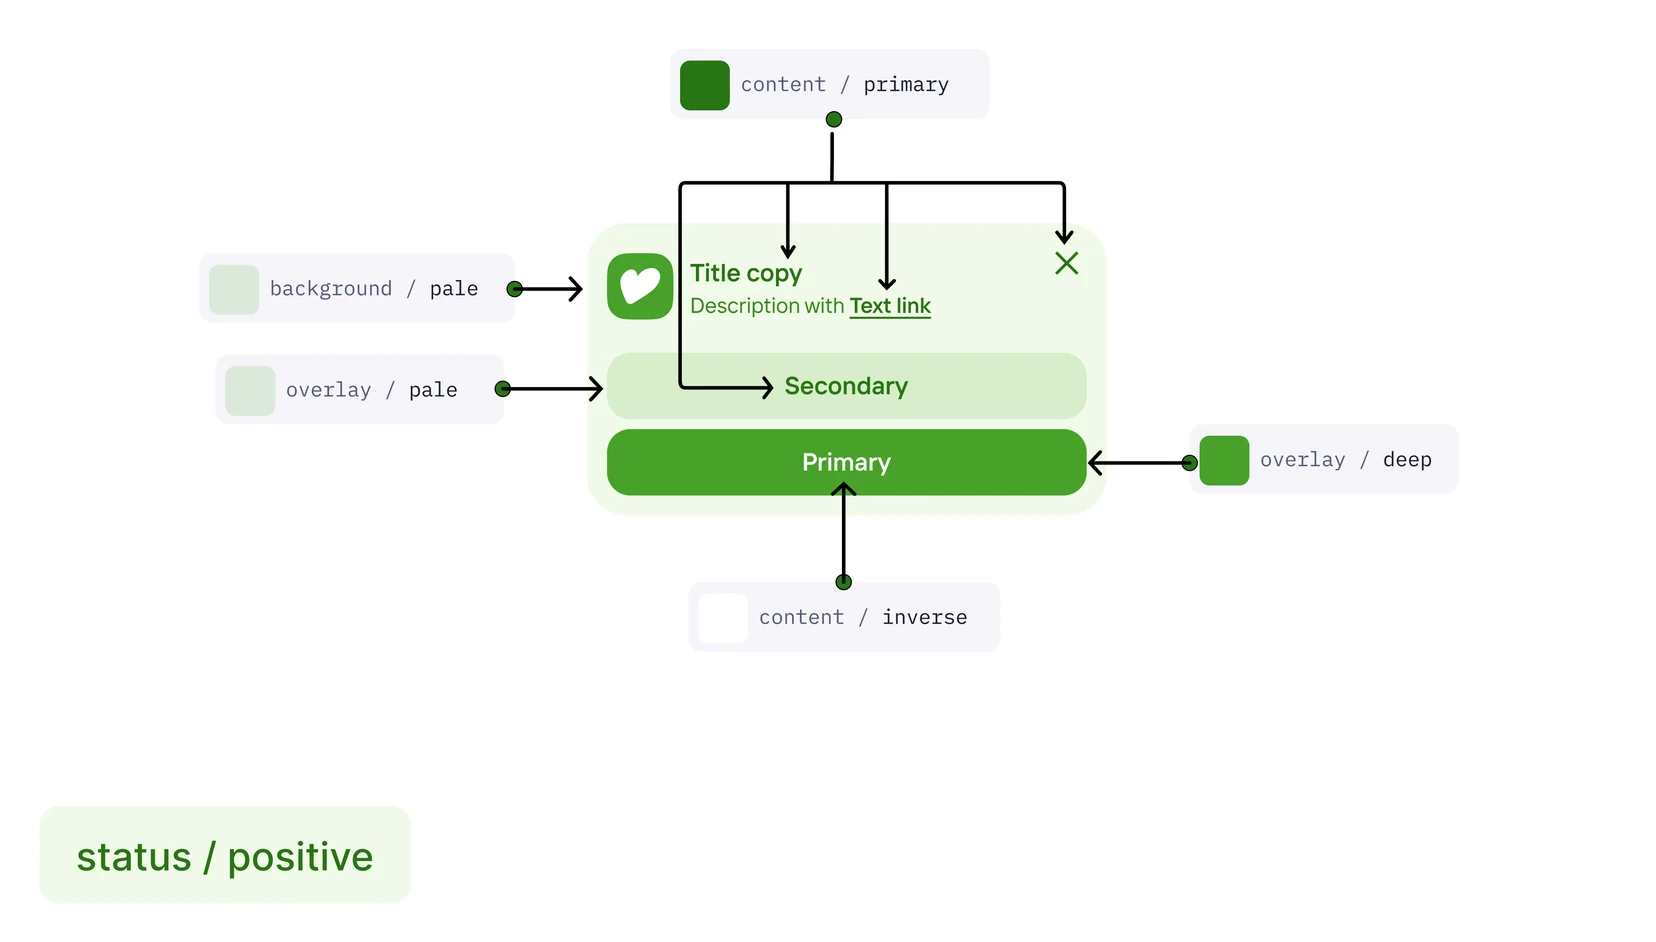
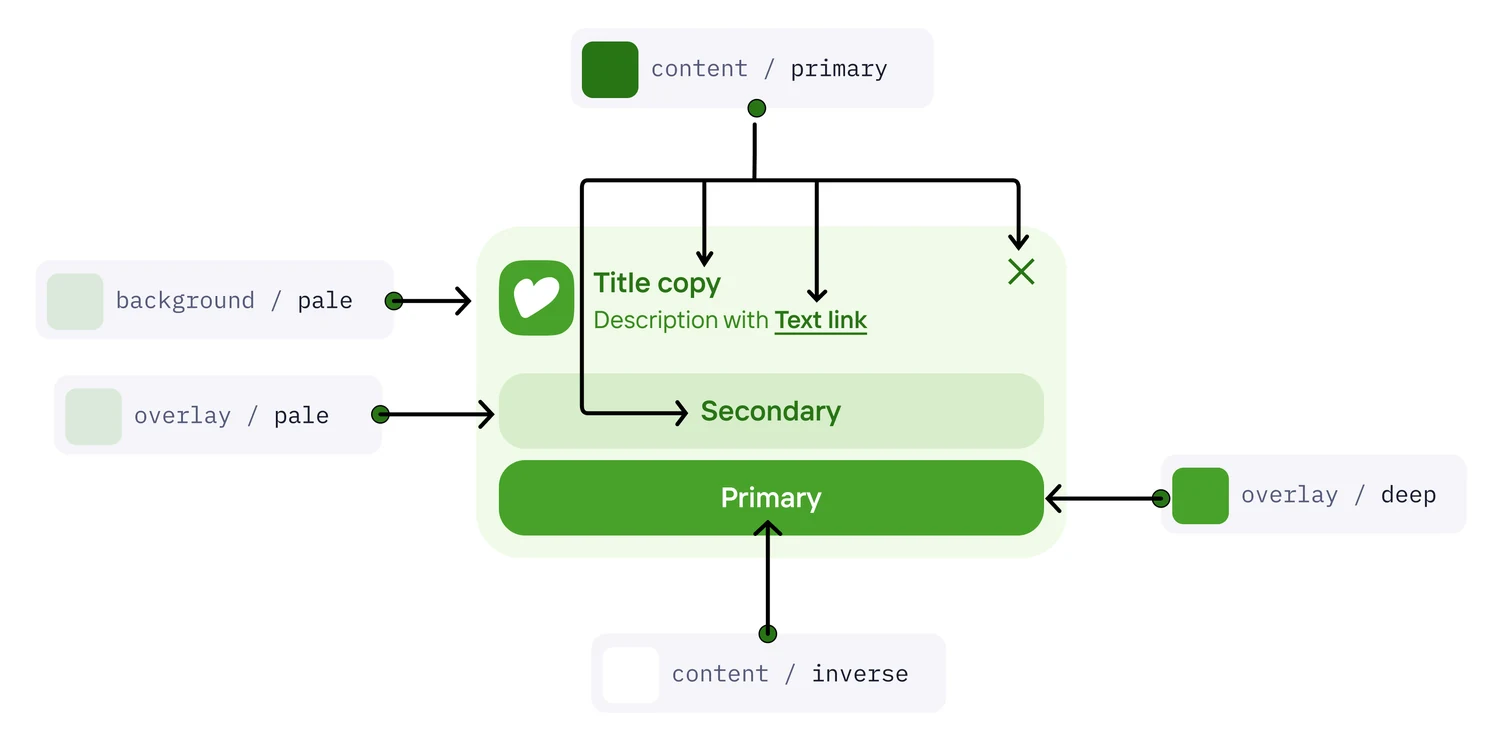
Kite DS: Figma variable-modes panel next to every cycling example
Claude-Session: https://claude.ai/code/session_01RRbtjB1Ax1vA2u46cEyf4d

diff --git a/index.html b/index.html
@@ -445,14 +445,15 @@
       <h2>Solution</h2>
       <div class="body">
         <figure class="wide-fig roles-sw">
-          <div class="board roles-plate">
-            <img class="on" src="assets/img/kite/roles-neutral.webp" alt="A notification block in the neutral group: each part points to its role token">
-            <img src="assets/img/kite/roles-status-positive.webp" alt="The same block in the status positive group" loading="lazy">
-            <img src="assets/img/kite/roles-accent-uno.webp" alt="The same block in the accent uno group" loading="lazy">
-            <img src="assets/img/kite/roles-accent-duo.webp" alt="The same block in the accent duo group" loading="lazy">
-            <img src="assets/img/kite/roles-brand-uno.webp" alt="The same block in the brand uno group" loading="lazy">
-            <img src="assets/img/kite/roles-brand-duo.webp" alt="The same block in the brand duo group" loading="lazy">
-            <img src="assets/img/kite/roles-status-negative.webp" alt="The same block in the status negative group" loading="lazy">
+          <div class="board roles-plate"><div class="rp-media">
+            <img data-modes="Theme=Light;Color group=neutral" class="on" src="assets/img/kite/roles-neutral.webp" alt="A notification block in the neutral group: each part points to its role token">
+            <img data-modes="Theme=Light;Color group=status / positive" src="assets/img/kite/roles-status-positive.webp" alt="The same block in the status positive group" loading="lazy">
+            <img data-modes="Theme=Light;Color group=accent / uno" src="assets/img/kite/roles-accent-uno.webp" alt="The same block in the accent uno group" loading="lazy">
+            <img data-modes="Theme=Light;Color group=accent / duo" src="assets/img/kite/roles-accent-duo.webp" alt="The same block in the accent duo group" loading="lazy">
+            <img data-modes="Theme=Light;Color group=brand / uno" src="assets/img/kite/roles-brand-uno.webp" alt="The same block in the brand uno group" loading="lazy">
+            <img data-modes="Theme=Light;Color group=brand / duo" src="assets/img/kite/roles-brand-duo.webp" alt="The same block in the brand duo group" loading="lazy">
+            <img data-modes="Theme=Light;Color group=status / negative" src="assets/img/kite/roles-status-negative.webp" alt="The same block in the status negative group" loading="lazy">
+          </div><div class="vm" aria-hidden="true"></div>
           </div>
         </figure>
         <div class="two-col">
@@ -461,9 +462,10 @@
           <p>Components only know roles, so switching the group recolors them without a new variant. A new brand or theme means new values for the same roles, not new tokens.</p>
         </div>
         <figure class="wide-fig roles-sw mt-fig">
-          <div class="board roles-plate">
-            <img class="on" src="assets/img/kite/intensity-pale.webp" alt="A notification block in pale intensity: light surface, soft secondary and a deep primary button">
-            <img src="assets/img/kite/intensity-deep.webp" alt="The same block in deep intensity: dark surface, inverse text and a white primary button" loading="lazy">
+          <div class="board roles-plate"><div class="rp-media">
+            <img data-modes="Color group=neutral;Intensity=pale" class="on" src="assets/img/kite/intensity-pale.webp" alt="A notification block in pale intensity: light surface, soft secondary and a deep primary button">
+            <img data-modes="Color group=neutral;Intensity=deep" src="assets/img/kite/intensity-deep.webp" alt="The same block in deep intensity: dark surface, inverse text and a white primary button" loading="lazy">
+          </div><div class="vm" aria-hidden="true"></div>
           </div>
         </figure>
         <div class="two-col">
@@ -477,9 +479,10 @@
           </ul>
         </div>
         <figure class="wide-fig roles-sw mt-fig phone">
-          <div class="board roles-plate">
-            <img class="on" src="assets/img/kite/theme-light.webp" alt="A screen in the light theme">
-            <img src="assets/img/kite/theme-dark.webp" alt="The same screen in the dark theme" loading="lazy">
+          <div class="board roles-plate"><div class="rp-media">
+            <img data-modes="Brand=Main;Theme=Light" class="on" src="assets/img/kite/theme-light.webp" alt="A screen in the light theme">
+            <img data-modes="Brand=Main;Theme=Dark" src="assets/img/kite/theme-dark.webp" alt="The same screen in the dark theme" loading="lazy">
+          </div><div class="vm" aria-hidden="true"></div>
           </div>
         </figure>
         <div class="two-col">
@@ -488,9 +491,10 @@
           <p>Every screen gets a dark theme without extra layouts, and states keep their contrast in both.</p>
         </div>
         <figure class="wide-fig roles-sw mt-fig phone">
-          <div class="board roles-plate">
-            <img class="on" src="assets/img/kite/brand-default.webp" alt="A screen in the main brand: purple buttons with medium corners">
-            <img src="assets/img/kite/brand-white-label.webp" alt="The same screen as a white label: red and grey pill-shaped buttons" loading="lazy">
+          <div class="board roles-plate"><div class="rp-media">
+            <img data-modes="Brand=Main;Theme=Light" class="on" src="assets/img/kite/brand-default.webp" alt="A screen in the main brand: purple buttons with medium corners">
+            <img data-modes="Brand=White label;Theme=Light" src="assets/img/kite/brand-white-label.webp" alt="The same screen as a white label: red and grey pill-shaped buttons" loading="lazy">
+          </div><div class="vm" aria-hidden="true"></div>
           </div>
         </figure>
         <div class="two-col">
@@ -499,9 +503,10 @@
           <p>The same screen and the same components become a different product: a new white label is a new set of values, not a new library.</p>
         </div>
         <figure class="wide-fig roles-sw mt-fig phone">
-          <div class="board roles-plate">
-            <img class="on" src="assets/img/kite/loading-content.webp" alt="A screen with cards, a progress bar and list items">
-            <img src="assets/img/kite/loading-skeleton.webp" alt="The same screen in the loading state, drawn as a skeleton" loading="lazy">
+          <div class="board roles-plate"><div class="rp-media">
+            <img data-modes="Theme=Light;State=Default" class="on" src="assets/img/kite/loading-content.webp" alt="A screen with cards, a progress bar and list items">
+            <img data-modes="Theme=Light;State=Loading" src="assets/img/kite/loading-skeleton.webp" alt="The same screen in the loading state, drawn as a skeleton" loading="lazy">
+          </div><div class="vm" aria-hidden="true"></div>
           </div>
         </figure>
         <div class="two-col">

diff --git a/css/style.css b/css/style.css
@@ -1246,3 +1246,27 @@ body[data-view="work"] .impact { display: none; }
 @media (max-width: 720px) { .duo-cards { grid-template-columns: 1fr; gap: 40px; } }
 .duo-cards h3 { margin: 0 0 12px !important; } .duo-cards p { margin: 0 !important; }
 .roles-sw.phone .roles-plate { aspect-ratio: 1600 / 813; }
+
+/* Kite: plates with a Figma "Variable modes" panel on the side */
+.roles-sw .roles-plate { aspect-ratio: auto !important; display: grid; grid-template-columns: minmax(0, 1.7fr) minmax(0, 1fr); align-items: center; gap: 4%; padding: 36px 40px; background: #fff; }
+.roles-sw.phone .roles-plate { background: #f6f6f5; padding-bottom: 0; align-items: start; }
+.roles-sw .rp-media { position: relative; aspect-ratio: 1500 / 750; }
+.roles-sw.phone .rp-media { aspect-ratio: 1260 / 915; }
+.roles-sw .rp-media img { position: absolute; inset: 0; width: 100%; height: 100%; border-radius: 0; }
+.vm { background: #2c2c2c; color: #fff; border-radius: 16px; padding: 18px 16px 8px; font-family: Inter, system-ui, -apple-system, "Segoe UI", sans-serif; font-size: 13px; line-height: 1.2; }
+.roles-sw.phone .vm { align-self: center; }
+.vm-h { display: flex; justify-content: space-between; align-items: center; font-weight: 600; font-size: 14px; margin-bottom: 14px; }
+.vm-h svg { width: 16px; height: 16px; opacity: .8; }
+.vm-r { display: grid; grid-template-columns: minmax(0, .9fr) minmax(0, 1.4fr); align-items: center; gap: 8px; margin-bottom: 10px; }
+.vm-r > span { color: #a7a7a7; white-space: nowrap; overflow: hidden; text-overflow: ellipsis; }
+.vm-v { display: flex; justify-content: space-between; align-items: center; gap: 6px; border: 1px solid #4a4a4a; border-radius: 8px; padding: 8px 10px; white-space: nowrap; overflow: hidden; transition: border-color .3s, background .3s; }
+.vm-v b { font-weight: 500; overflow: hidden; text-overflow: ellipsis; }
+.vm-v i { flex: none; width: 7px; height: 7px; border-right: 1.5px solid #ccc; border-bottom: 1.5px solid #ccc; transform: translateY(-2px) rotate(45deg); }
+.vm-v.hit { border-color: #0d99ff; background: rgba(13,153,255,.12); }
+@media (max-width: 720px) {
+  .roles-sw .roles-plate { grid-template-columns: 1fr; padding: 20px; gap: 16px; }
+  .roles-sw.phone .roles-plate { padding-bottom: 20px; }
+  .roles-sw.phone .rp-media { order: 2; margin-bottom: -20px; }
+}
+.roles-sw:not(.phone) .roles-plate { grid-template-columns: minmax(0, 2.1fr) minmax(0, 1fr); padding: 28px 32px; gap: 3%; }
+@media (max-width: 720px) { .roles-sw:not(.phone) .roles-plate { grid-template-columns: 1fr; padding: 20px; } }

diff --git a/js/main.js b/js/main.js
@@ -506,15 +506,29 @@ addEventListener('pointermove', (e) => { const p = window.__pointer; p.x = e.cli
   });
 })();
 
-// Kite: color groups cycle (plays like a gif)
+// Kite: plates cycle like a gif, with a fake Figma "Variable modes" panel
 document.querySelectorAll('.roles-sw').forEach(fig => {
   const imgs = [...fig.querySelectorAll('.roles-plate img')];
-  if (matchMedia('(prefers-reduced-motion: reduce)').matches) return;
+  const vm = fig.querySelector('.vm');
+  const parse = img => (img.dataset.modes || '').split(';').filter(Boolean).map(x => x.split('='));
+  const vals = [];
+  if (vm) {
+    vm.innerHTML = '<div class="vm-h">Variable modes<svg viewBox="0 0 16 16" fill="none" stroke="currentColor" stroke-width="1.3"><rect x="2" y="2" width="5" height="12" rx="2.5"/><path d="M7 5.5l3-3a2.1 2.1 0 013 3l-6 6"/><circle cx="4.5" cy="11.5" r=".6" fill="currentColor"/></svg></div>' +
+      parse(imgs[0]).map(([k]) => '<div class="vm-r"><span>' + k + '</span><div class="vm-v"><b></b><i></i></div></div>').join('');
+    vm.querySelectorAll('.vm-v b').forEach(b => vals.push(b));
+  }
   let cur = 0;
+  const paint = (flash) => parse(imgs[cur]).forEach(([, v], k) => {
+    const b = vals[k]; if (!b) return;
+    if (b.textContent !== v) { b.textContent = v; if (flash) { const box = b.parentNode; box.classList.add('hit'); setTimeout(() => box.classList.remove('hit'), 700); } }
+  });
+  paint(false);
+  if (matchMedia('(prefers-reduced-motion: reduce)').matches) return;
   setInterval(() => {
     if (document.hidden) return;
     const r = fig.getBoundingClientRect(); if (r.bottom < 0 || r.top > innerHeight) return;
     imgs[cur].classList.remove('on'); cur = (cur + 1) % imgs.length; imgs[cur].classList.add('on');
+    paint(true);
     imgs[(cur + 1) % imgs.length].loading = 'eager';
-  }, 1600);
+  }, 1800);
 });
